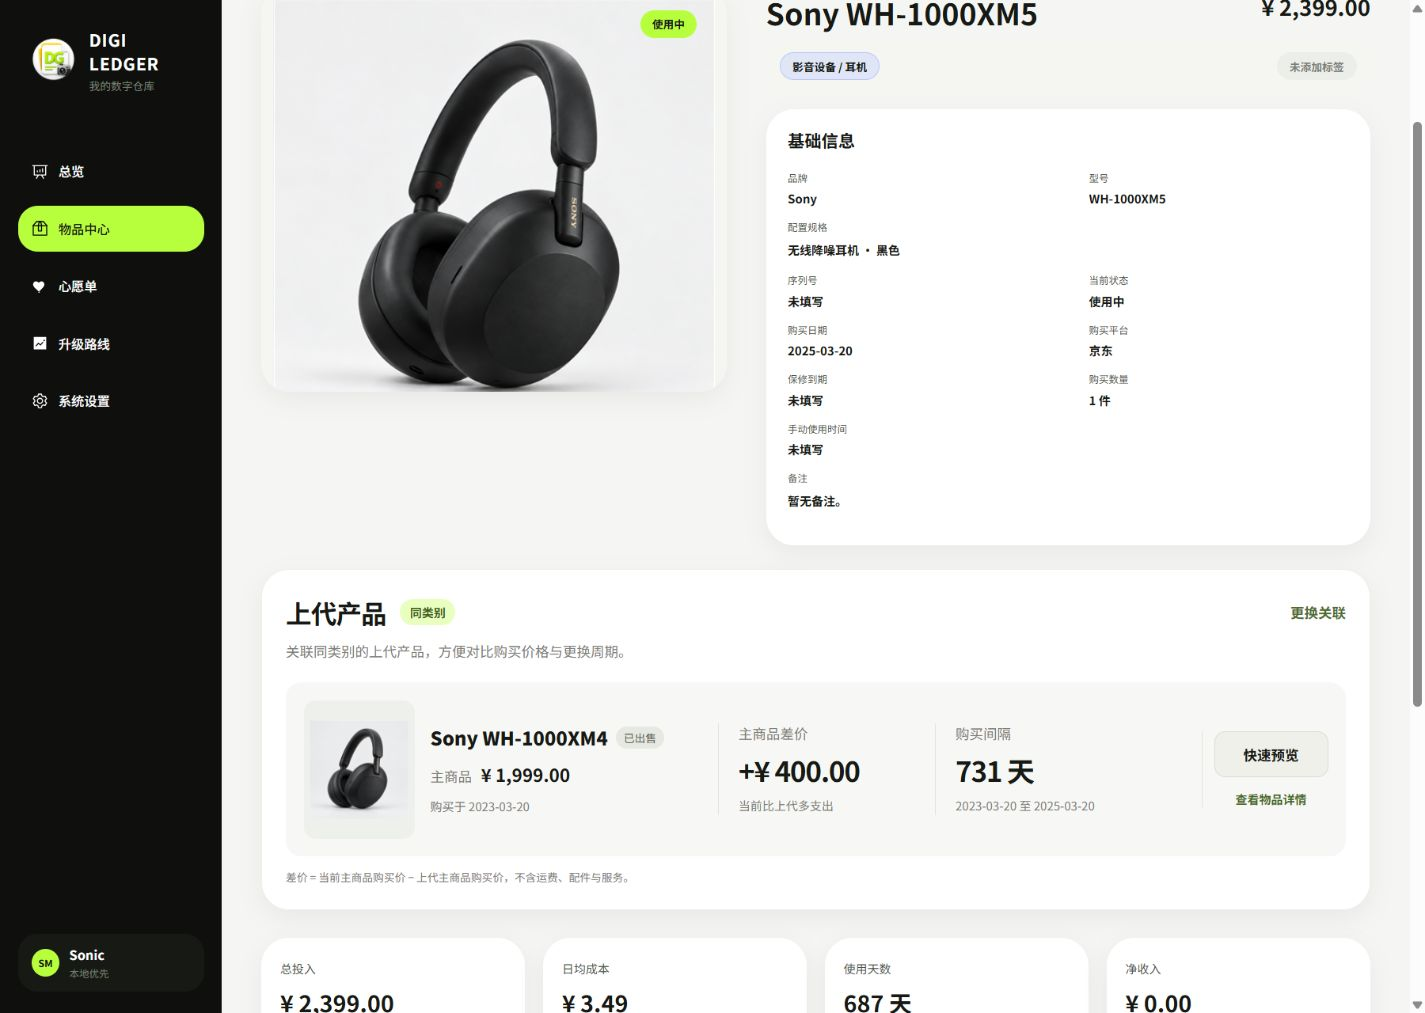
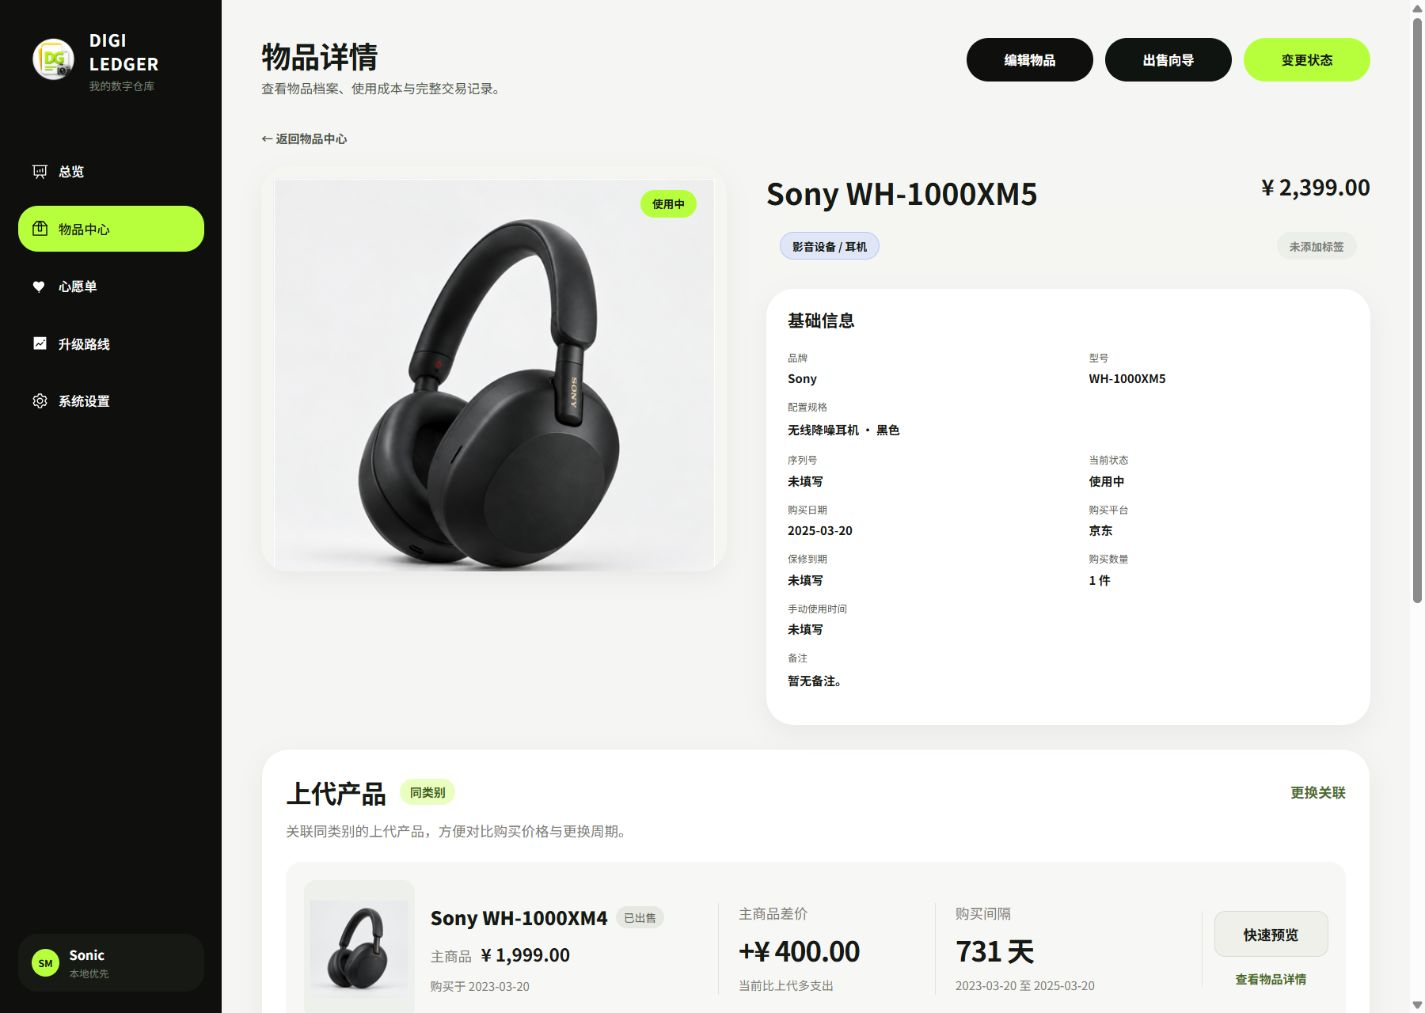
上代关联单独设置

diff --git a/fronten2.0/src/components/AssetPredecessorManageDialog.vue b/fronten2.0/src/components/AssetPredecessorManageDialog.vue
@@ -1,0 +1,85 @@
+<template>
+  <el-dialog
+    :model-value="modelValue"
+    :title="asset.predecessorAssetId ? '更换上代产品' : '关联上代产品'"
+    width="min(720px, calc(100vw - 32px))"
+    align-center
+    destroy-on-close
+    @update:model-value="$emit('update:modelValue', $event)"
+  >
+    <div class="manage-intro">
+      <span class="manage-category">{{ categoryLabel }}</span>
+      <strong>{{ asset.name }}</strong>
+      <p>搜索并选择同类别物品。保存只会更新上代产品关联。</p>
+    </div>
+    <el-form label-position="top">
+      <el-form-item label="上代产品">
+        <AssetPredecessorPicker
+          v-model="selectedId"
+          :category-id="asset.categoryId"
+          :exclude-asset-id="asset.id"
+          :selected="asset.predecessorAsset"
+          :current-purchase="currentPurchase"
+          @preview="preview"
+        />
+      </el-form-item>
+    </el-form>
+    <template #footer>
+      <div class="manage-footer">
+        <button type="button" class="secondary-button" :disabled="saving" @click="$emit('update:modelValue', false)">取消</button>
+        <button type="button" class="primary-button" :disabled="saving || !changed" @click="save">
+          {{ saving ? '正在保存…' : '保存关联' }}
+        </button>
+      </div>
+    </template>
+  </el-dialog>
+  <AssetPreviewDialog v-model="previewOpen" :asset-id="previewId" :category-label="categoryLabel" new-tab />
+</template>
+
+<script setup lang="ts">
+import { computed, ref, watch } from 'vue'
+import { ElMessage } from 'element-plus'
+import { updateAssetPredecessor } from '@/api/assets'
+import type { AssetDetail } from '@/types'
+import { primaryPurchaseRecord } from '@/utils/predecessor'
+import AssetPredecessorPicker from './AssetPredecessorPicker.vue'
+import AssetPreviewDialog from './AssetPreviewDialog.vue'
+
+const props = defineProps<{ modelValue: boolean; asset: AssetDetail; categoryLabel: string }>()
+const emit = defineEmits<{ 'update:modelValue': [value: boolean]; saved: [] }>()
+const selectedId = ref<number | null>(null)
+const saving = ref(false)
+const previewOpen = ref(false)
+const previewId = ref<number>()
+const currentPurchase = computed(() => primaryPurchaseRecord(props.asset.purchases))
+const changed = computed(() => selectedId.value !== (props.asset.predecessorAssetId ?? null))
+
+watch(() => [props.modelValue, props.asset.id] as const, ([open]) => {
+  if (open) selectedId.value = props.asset.predecessorAssetId ?? null
+  else previewOpen.value = false
+})
+
+function preview(id: number) {
+  previewId.value = id
+  previewOpen.value = true
+}
+
+async function save() {
+  if (!changed.value || saving.value) return
+  saving.value = true
+  try {
+    await updateAssetPredecessor(props.asset.id, selectedId.value)
+    ElMessage.success('上代产品关联已保存')
+    emit('update:modelValue', false)
+    emit('saved')
+  } catch (error) {
+    ElMessage.error((error as Error).message)
+  } finally {
+    saving.value = false
+  }
+}
+</script>
+
+<style scoped>
+.manage-intro{display:flex;flex-direction:column;align-items:flex-start;gap:8px;margin-bottom:22px}.manage-category{padding:5px 10px;border-radius:999px;background:var(--dl-accent-soft);color:#3f601e;font-size:11px;font-weight:700}.manage-intro>strong{font-size:18px;overflow-wrap:anywhere}.manage-intro p{margin:0;color:var(--dl-muted);font-size:12px;line-height:1.6}.manage-footer{display:flex;justify-content:flex-end;gap:10px}.manage-footer button{min-width:96px;height:40px;padding:0 16px;border:0;border-radius:11px;font-size:12px;font-weight:700;cursor:pointer}.manage-footer .primary-button{background:var(--dl-lime);color:var(--dl-text)}.manage-footer .primary-button:hover:not(:disabled){background:#a5ed29}.manage-footer button:disabled{cursor:not-allowed;opacity:.55}.manage-footer button:focus-visible{outline:2px solid #7da642;outline-offset:3px}
+</style>

diff --git a/fronten2.0/src/views/AssetDetailView.vue b/fronten2.0/src/views/AssetDetailView.vue
@@ -63,7 +63,8 @@
           </div>
         </section>
 
-        <AssetPredecessorSummary :predecessor="asset.predecessorAsset" :current-purchase="primaryPurchase" @manage="edit" @preview="previewPredecessor" />
+        <AssetPredecessorSummary :predecessor="asset.predecessorAsset" :current-purchase="primaryPurchase" @manage="managePredecessor" @preview="previewPredecessor" />
+        <AssetPredecessorManageDialog v-if="asset" v-model="predecessorManageOpen" :asset="asset" :category-label="displayCategoryPath" @saved="load" />
 
         <section class="detail-metrics" aria-label="物品使用指标">
           <article class="card metric-block"><span>总投入</span><strong>{{ money(asset.totalInvest) }}</strong><small>包含主商品、配件与服务</small></article>
@@ -255,6 +256,7 @@ import PrimaryButton from '@/components/PrimaryButton.vue'
 import AsyncState from '@/components/AsyncState.vue'
 import AttachmentDropzone from '@/components/AttachmentDropzone.vue'
 import AssetPredecessorSummary from '@/components/AssetPredecessorSummary.vue'
+import AssetPredecessorManageDialog from '@/components/AssetPredecessorManageDialog.vue'
 import AssetPreviewDialog from '@/components/AssetPreviewDialog.vue'
 import { primaryPurchaseRecord } from '@/utils/predecessor'
 
@@ -273,6 +275,7 @@ const saving = ref(false)
 const statusDialog = ref(false)
 const coverPreviewOpen = ref(false)
 const predecessorPreviewOpen = ref(false), predecessorPreviewId = ref<number>()
+const predecessorManageOpen = ref(false)
 let loadId = 0
 function previewPredecessor(id: number) { predecessorPreviewId.value = id; predecessorPreviewOpen.value = true }
 const purchaseDialog = ref(false)
@@ -370,6 +373,7 @@ async function load() {
 }
 
 function edit() { if (asset.value) workspace.openAssetEditor(asset.value) }
+function managePredecessor() { predecessorManageOpen.value = true }
 function openCoverPreview() { if (asset.value?.coverImageUrl) coverPreviewOpen.value = true }
 async function execute(task: () => Promise<unknown>, done: () => void, message = '操作已保存') {
   saving.value = true

diff --git a/fronten2.0/src/api/assets.ts b/fronten2.0/src/api/assets.ts
@@ -11,6 +11,7 @@ export const fetchAsset = (id: number) => http.get<AssetDetail>(`/assets/${id}`)
 export const fetchPredecessorOptions = (categoryId: number, keyword = '', excludeAssetId?: number) => http.get<AssetPredecessor[]>('/assets/predecessor-options', { params: { category_id: categoryId, q: keyword.trim() || undefined, exclude_asset_id: excludeAssetId } })
 export const createAsset = (payload: AssetPayload) => http.post<number>('/assets', payload)
 export const updateAsset = (id: number, payload: AssetPayload) => http.put<void>(`/assets/${id}`, payload)
+export const updateAssetPredecessor = (id: number, predecessorAssetId: number | null) => http.patch<void>(`/assets/${id}/predecessor`, { predecessorAssetId })
 export const deleteAsset = (id: number) => http.delete<void>(`/assets/${id}`)
 export const updateAssetStatus = (id: number, status: AssetStatus) => http.patch<void>(`/assets/${id}/status`, { status })
 export const sellAsset = (id: number, payload: SellPayload) => http.post<SaleRecord>(`/assets/${id}/sell`, payload)

diff --git a/backend/src/main/java/com/digiledger/backend/controller/AssetController.java b/backend/src/main/java/com/digiledger/backend/controller/AssetController.java
@@ -1,6 +1,8 @@
 package com.digiledger.backend.controller;
 
 import com.digiledger.backend.common.ApiResponse;
+import com.digiledger.backend.common.BizException;
+import com.digiledger.backend.common.ErrorCode;
 import com.digiledger.backend.model.dto.asset.AssetCreateRequest;
 import com.digiledger.backend.model.dto.asset.AssetDetailDTO;
 import com.digiledger.backend.model.dto.asset.AssetPredecessorDTO;
@@ -13,6 +15,7 @@ import jakarta.validation.Valid;
 import jakarta.validation.constraints.Min;
 import jakarta.validation.constraints.Max;
 import jakarta.validation.constraints.NotNull;
+import com.fasterxml.jackson.databind.JsonNode;
 import org.springframework.web.bind.annotation.*;
 
 import java.util.List;
@@ -120,6 +123,26 @@ public class AssetController {
     public ApiResponse<Void> updateStatus(@PathVariable(name = "id") @NotNull @Min(1) Long id,
                                           @RequestBody @Valid AssetStatusUpdateRequest request) {
         assetService.updateAssetStatus(id, request.getStatus());
+        return ApiResponse.success();
+    }
+
+    /** 仅更新上代产品关联，字段必传；null 表示解除关联。 */
+    @PatchMapping("/{id}/predecessor")
+    public ApiResponse<Void> updatePredecessor(
+            @PathVariable(name = "id") @NotNull @Min(1) Long id,
+            @RequestBody JsonNode request) {
+        if (request == null || !request.has("predecessorAssetId")) {
+            throw new BizException(ErrorCode.VALIDATION_ERROR, "请提供 predecessorAssetId；null 可解除关联");
+        }
+        JsonNode value = request.get("predecessorAssetId");
+        Long predecessorId = null;
+        if (!value.isNull()) {
+            if (!value.isIntegralNumber() || !value.canConvertToLong() || value.longValue() <= 0) {
+                throw new BizException(ErrorCode.VALIDATION_ERROR, "上代产品ID必须为正数或 null");
+            }
+            predecessorId = value.longValue();
+        }
+        assetService.updateAssetPredecessor(id, predecessorId);
         return ApiResponse.success();
     }
 

diff --git a/backend/src/main/java/com/digiledger/backend/service/impl/AssetServiceImpl.java b/backend/src/main/java/com/digiledger/backend/service/impl/AssetServiceImpl.java
@@ -187,6 +187,15 @@ public class AssetServiceImpl implements AssetService {
                 .map(candidate -> predecessorSummary(candidate, null)).toList();
     }
 
+    @Override
+    @Transactional
+    public void updateAssetPredecessor(Long id, Long predecessorId) {
+        DeviceAsset asset = assetMapper.findByIdForUpdate(id);
+        if (asset == null) throw new BizException(ErrorCode.ASSET_NOT_FOUND);
+        validatePredecessor(id, asset.getCategoryId(), predecessorId);
+        assetMapper.updatePredecessor(id, predecessorId);
+    }
+
     private boolean leadsTo(DeviceAsset candidate, Long targetId) {
         Set<Long> visited = new HashSet<>();
         while (candidate != null) {

diff --git a/backend/src/main/java/com/digiledger/backend/mapper/AssetMapper.java b/backend/src/main/java/com/digiledger/backend/mapper/AssetMapper.java
@@ -29,6 +29,8 @@ public interface AssetMapper {
 
     List<Long> findSuccessorsInOtherCategoriesForUpdate(@Param("id") Long id, @Param("categoryId") Long categoryId);
 
+    int updatePredecessor(@Param("id") Long id, @Param("predecessorId") Long predecessorId);
+
     @Select("SELECT * FROM device_asset WHERE id = #{id} FOR UPDATE")
     @ResultMap("assetResultMap")
     DeviceAsset findByIdForUpdate(@Param("id") Long id);

diff --git a/backend/src/main/java/com/digiledger/backend/service/AssetService.java b/backend/src/main/java/com/digiledger/backend/service/AssetService.java
@@ -21,6 +21,8 @@ public interface AssetService {
 
     List<AssetPredecessorDTO> predecessorOptions(Long categoryId, String keyword, Long excludeId);
 
+    void updateAssetPredecessor(Long id, Long predecessorId);
+
     Long createAsset(AssetCreateRequest request);
 
     void updateAsset(Long id, AssetCreateRequest request);

diff --git a/design-qa.md b/design-qa.md
@@ -12,6 +12,7 @@ final result: passed
 - 聚焦对照：`docs/design/predecessor/comparison-feature.png`，参考关联卡片等比缩放至 1136 像素宽，实际关联卡片以原始 1136 像素宽展示。
 - 较窄桌面截图：`docs/design/predecessor/implementation-1200.png`，1200 × 900 CSS 像素。关联区改为两列，操作区完整可见。
 - 预览与编辑截图：`implementation-preview.png`、`implementation-editor.png`，位于同一目录。
+- 独立关联选择弹窗：`docs/design/predecessor/implementation-manage-dialog.png`。弹窗保留当前物品和类别上下文，底部只保存上代产品关联。
 
 本次扩展现有 PC 产品。原有基础信息、出售向导、状态操作、使用指标与购买/出售记录继续使用现有布局。因此完整页面较参考图更长，关联区位置更靠下。这是现有产品上下文的延续；第一版的横向关联卡片是本次实现的视觉范围。
 
@@ -24,7 +25,7 @@ final result: passed
 | 颜色 | 沿用黑色文字、灰绿色次级文字、浅绿色同类别标签、现有背景与圆角变量。按钮有 hover 与键盘 focus 样式。 |
 | 图片 | 正式组件使用真实物品封面；演示图片由 ImageGen 生成，实物摄影方向、黑色耳机、浅色背景与参考一致。图片保持比例，不拉伸。缺少封面使用产品原有空态图标。 |
 | 文案 | 更换关联、快速预览、详情跳转与同类别含义清晰。补充差价计算说明；缺少数据不显示成零。 |
-| 操作 | 浏览器实际操作确认预览、关闭、详情跳转、同组件详情更新、搜索、更换、保存、取消关联、空结果、缺失购买信息、价格即时计算与分类变更提醒。 |
+| 操作 | 浏览器实际操作确认预览、关闭、详情跳转、搜索、独立关联弹窗、更换并保存、独立解除并保存、详情刷新、空结果、缺失购买信息、价格即时计算与分类变更提醒。 |
 
 ## 检查迭代
 
@@ -32,6 +33,7 @@ final result: passed
 2. 关联区首轮字体和缩略图偏小。调整标题、指标、正文和封面尺寸，再将参考与实际卡片放在同一张对照图中检查。修复后证据：`comparison-feature.png`。
 3. 较窄桌面下原详情标题固定高度导致换行与分类标签重叠。改为自动高度、金额不换行，并调整较窄桌面的顶部网格比例。修复后证据：`implementation-1200.png`。
 4. 首轮空搜索可能继续显示已选物品。搜索词不匹配时不将已选物品补入候选列表；浏览器确认显示“没有找到同类别物品，试试其他关键词”，既有关联保留。
+5. 按用户反馈，详情卡片的关联操作首轮复用了整份物品编辑抽屉。改为独立弹窗和 `PATCH /assets/{id}/predecessor`，只提交关联 ID；浏览器确认更换、解除、保存与详情刷新，不打开整体编辑窗口。修复后证据：`implementation-manage-dialog.png`。
 
 ## 结果与边界
 
@@ -46,7 +48,7 @@ final result: passed
 
 - [x] 可选上代产品字段与数据库迁移
 - [x] 同类别搜索、自身/循环/跨类别校验
-- [x] 编辑选择、清除与即时价格/日期对比
+- [x] 编辑中选择、更换与清除；详情页使用独立弹窗
 - [x] 详情摘要、快速预览及物品详情跳转
 - [x] 第一版视觉对照与桌面宽度检查
 - [x] 前后端编译、接口契约和本地演示说明

diff --git a/docs/figma-rebuild/API_CONTRACT.md b/docs/figma-rebuild/API_CONTRACT.md
@@ -129,7 +129,9 @@ type ServerProfile = {
 ## 6. 上代产品关联（PC 物品编辑与详情）
 
 - `POST /api/assets`、`PUT /api/assets/{id}` 新增可选 `predecessorAssetId`；省略字段保留原关联，显式 `null` 解除关联。开放 API 的物品 PATCH 同样支持此字段。
+- `PATCH /api/assets/{id}/predecessor` 只更新上代产品关联；请求必须含 `predecessorAssetId`，传 `null` 表示解除关联。
 - `GET /api/assets/predecessor-options?category_id={id}&q={关键词}&exclude_asset_id={当前物品ID}` 按同一分类 ID 搜索名称、品牌、型号，最多返回 20 条，排除自身及会形成循环的物品。
+- `PATCH /api/assets/{id}/predecessor` 单独保存关联，只更新物品关联列；锁定当前物品和关联链并沿用同类别、无自身和无循环校验。响应不含完整编辑物品的必填字段。
[1 lines of base64/hex data omitted]
 - 差价 = 当前主商品购买价 − 上代主商品购买价；不含运费、配件和服务。购买间隔 = 两件主商品购买日期之间的自然日数。存在多条主商品记录时，取最早购买日期，同日取 ID 较大的记录。
 - 缺少主商品价格或日期，对应指标返回 `null`；零价格、零天数保留。负间隔保留符号，页面提示核对日期。
